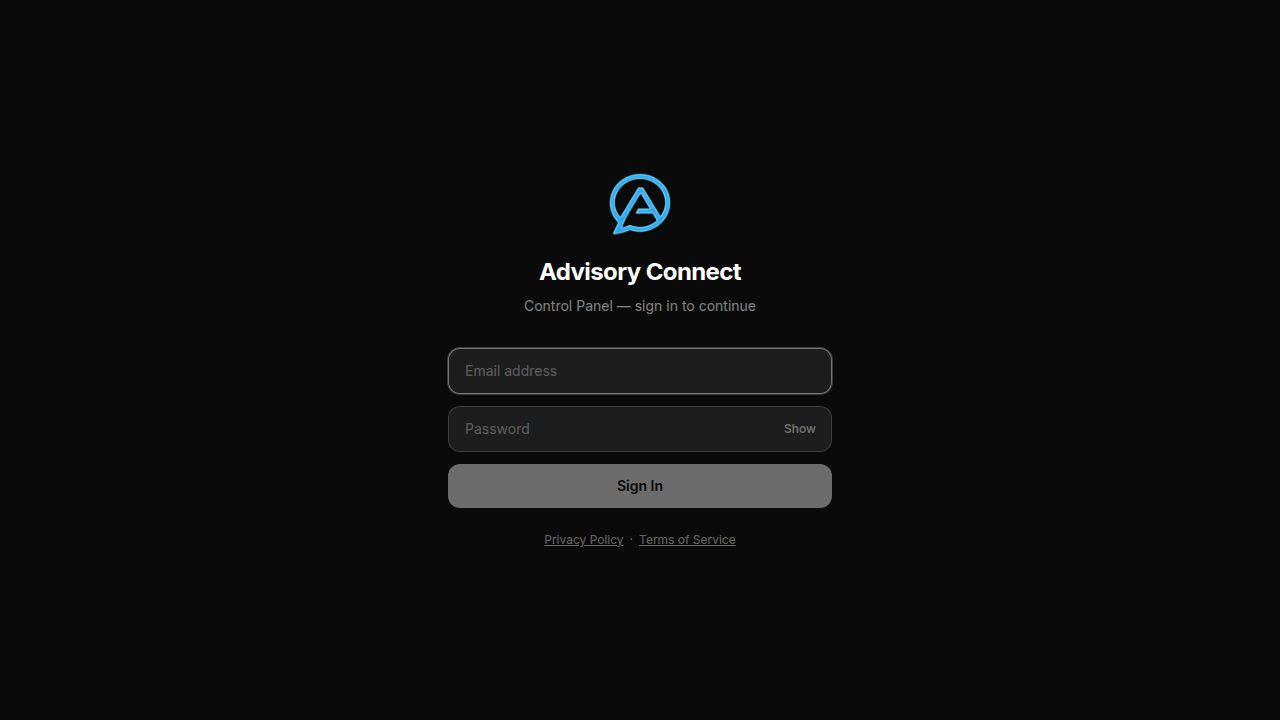
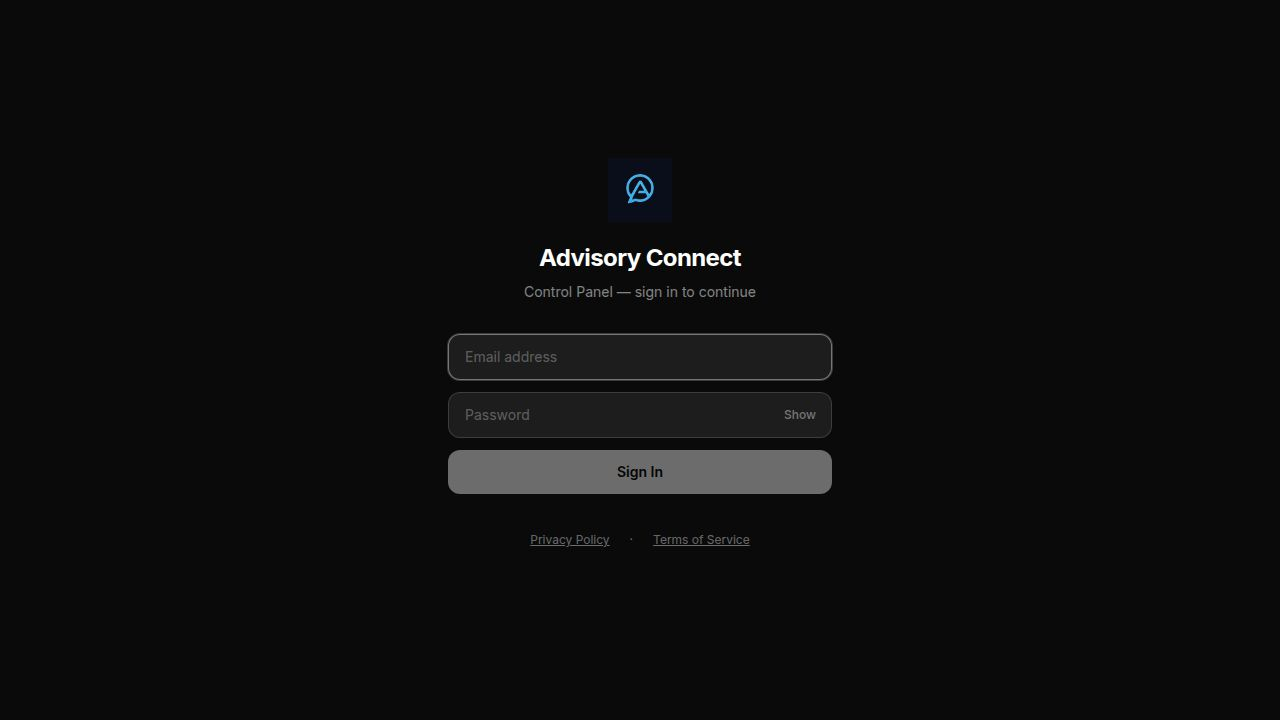
SEO: switch canonical hostname to app.advisoryconnect.pro
Search Console is verified for app.advisoryconnect.pro but the sitemap,
canonical tag, OG/Twitter images, robots.txt, contact-card QR/share
URLs, server-rendered crawler OG meta, .replit.app 301 redirect, email
PROD_ORIGIN, and admin/advisor "copy profile URL" UI were all emitting
bare advisoryconnect.pro. Google was fetching sitemap entries that
lived outside the verified property and refusing to index them
(Discovered pages: 0).

Changes (Option A from chat — make app. canonical everywhere):
- server/routes.ts: sitemap base URL + per-slug entries → app.
  Also switched profile path from /profile/<slug> to /<slug> to
  match the canonical short-form URL Stewart actively shares.
  Both /profile/<slug> and /<slug> still route to AdvisorProfile in
  client/src/App.tsx so old shared links keep working.
- server/index.ts: .replit.app→prod 301 redirect target → app.;
  server-rendered OG metadata for crawlers (siteUrl, og:image url) → app.
  This is the big one for WhatsApp/Twitter/Facebook link previews.
- server/sendgrid.ts: PROD_ORIGIN constant → app. (used in every
  branded email footer link).
- client/public/robots.txt: Sitemap directive → app.
- client/index.html: <link rel=canonical>, og:image, twitter:image → app.
- client/src/pages/AdvisorProfile.tsx: profileUrl, profileShareUrl,
  hidden QR value, contact-card canvas QR caption + privacy footer → app.
- client/src/pages/AdvisorPanel.tsx: ShareCard url, Profile-Created
  toast, Profile URL slug input prefix → app.
[…]

Changed region(s): [[0.3438, 0.4583, 0.6562, 0.7028], [0.4062, 0.2444, 0.5938, 0.4278], [0.4062, 0.7333, 0.5938, 0.7639]]

diff --git a/client/src/pages/AdvisorProfile.tsx b/client/src/pages/AdvisorProfile.tsx
@@ -823,7 +823,7 @@ export default function AdvisorProfile() {
     advisor.corporateServices?.includes(s.key)
   ).map((s) => ({ ...s, ...(t.corpServices[s.key] || {}) }));
 
-  const profileUrl = `advisoryconnect.pro/${advisor.profileSlug}`;
+  const profileUrl = `app.advisoryconnect.pro/${advisor.profileSlug}`;
   const initials = getInitials(advisor.name);
 
   const hasContactDetails = advisor.showContactDetails !== false && (
@@ -832,7 +832,7 @@ export default function AdvisorProfile() {
 
   const themeBg = getThemeBackground(advisor.theme, (advisor as any).backgroundStyle, (advisor as any).patternOpacity);
 
-  const profileShareUrl = `https://advisoryconnect.pro/${advisor.profileSlug}`;
+  const profileShareUrl = `https://app.advisoryconnect.pro/${advisor.profileSlug}`;
   const hasWhatsApp = !!(advisor as any).contactNumber;
   const isIOS = /iphone|ipad|ipod/i.test(navigator.userAgent);
 
@@ -996,7 +996,7 @@ export default function AdvisorProfile() {
         }
         ctx.fillStyle = "#555"; ctx.font = `8.5px Arial, sans-serif`;
         ctx.textAlign = "center";
-        ctx.fillText("advisoryconnect.pro/privacy-policy", W / 2, H - 11);
+        ctx.fillText("app.advisoryconnect.pro/privacy-policy", W / 2, H - 11);
         const link = document.createElement("a");
         link.href = canvas.toDataURL("image/png");
         link.download = `${advisor.name.replace(/\s+/g, "-").toLowerCase()}-card.png`;
@@ -1024,7 +1024,7 @@ export default function AdvisorProfile() {
           ctx.textAlign = "center";
           ctx.fillText("Scan to view full profile", W / 2, qrY + QR_SIZE + 14);
           ctx.fillStyle = "#bbb"; ctx.font = `9px Arial, sans-serif`;
-          ctx.fillText(`advisoryconnect.pro/${advisor.profileSlug}`, W / 2, qrY + QR_SIZE + 28);
+          ctx.fillText(`app.advisoryconnect.pro/${advisor.profileSlug}`, W / 2, qrY + QR_SIZE + 28);
           afterQr();
         };
         qrImg.onerror = () => { URL.revokeObjectURL(url); afterQr(); };
@@ -1348,7 +1348,7 @@ export default function AdvisorProfile() {
 
         {/* Hidden QR for business card PDF generation */}
         <div style={{ position: "absolute", left: "-9999px", top: "-9999px", width: 0, height: 0, overflow: "hidden" }} aria-hidden="true">
-          <QRCodeSVG id="hidden-qr-card" value={`https://advisoryconnect.pro/${advisor.profileSlug}`} size={120} level="M" />
+          <QRCodeSVG id="hidden-qr-card" value={`https://app.advisoryconnect.pro/${advisor.profileSlug}`} size={120} level="M" />
         </div>
 
         {/* Ordered Sections */}

diff --git a/server/routes.ts b/server/routes.ts
@@ -207,14 +207,14 @@ export async function registerRoutes(
       const active = allAdvisors.filter((a) => a.active && a.profileSlug);
 
       const urls: { loc: string; priority: string; changefreq: string }[] = [
-        { loc: "https://advisoryconnect.pro/", priority: "1.0", changefreq: "weekly" },
-        { loc: "https://advisoryconnect.pro/privacy-policy", priority: "0.3", changefreq: "monthly" },
-        { loc: "https://advisoryconnect.pro/terms", priority: "0.3", changefreq: "monthly" },
+        { loc: "https://app.advisoryconnect.pro/", priority: "1.0", changefreq: "weekly" },
+        { loc: "https://app.advisoryconnect.pro/privacy-policy", priority: "0.3", changefreq: "monthly" },
+        { loc: "https://app.advisoryconnect.pro/terms", priority: "0.3", changefreq: "monthly" },
       ];
 
       for (const a of active) {
         urls.push({
-          loc: `https://advisoryconnect.pro/profile/${encodeURIComponent(a.profileSlug)}`,
+          loc: `https://app.advisoryconnect.pro/${encodeURIComponent(a.profileSlug)}`,
           priority: "0.8",
           changefreq: "weekly",
         });
@@ -222,7 +222,7 @@ export async function registerRoutes(
         for (const sp of secondaries) {
           if (!sp.profileSlug) continue;
           urls.push({
-            loc: `https://advisoryconnect.pro/profile/${encodeURIComponent(sp.profileSlug)}`,
+            loc: `https://app.advisoryconnect.pro/${encodeURIComponent(sp.profileSlug)}`,
             priority: "0.6",
             changefreq: "weekly",
           });

diff --git a/client/src/pages/AdvisorPanel.tsx b/client/src/pages/AdvisorPanel.tsx
@@ -2696,7 +2696,7 @@ function ProfileCard({
 }) {
   const { toast } = useToast();
   const [copied, setCopied] = useState(false);
-  const url = `advisoryconnect.pro/${profileSlug}`;
+  const url = `app.advisoryconnect.pro/${profileSlug}`;
   const themeAccent = getThemeColors(theme).accentColor;
   const badgeColors = getInitialsBadgeColors(theme);
   const initials = getInitials(name);
@@ -2979,7 +2979,7 @@ function AdditionalProfileForm({
     },
     onSuccess: () => {
       queryClient.invalidateQueries({ queryKey: [`/api/advisors/${advisorId}/profiles`] });
-      toast({ title: isEditing ? "Profile Updated" : "Profile Created", description: isEditing ? "Changes saved." : `Profile live at advisoryconnect.pro/${profileSlug}` });
+      toast({ title: isEditing ? "Profile Updated" : "Profile Created", description: isEditing ? "Changes saved." : `Profile live at app.advisoryconnect.pro/${profileSlug}` });
       onDone();
     },
     onError: (e: Error) => toast({ title: "Error", description: e.message, variant: "destructive" }),
@@ -3039,7 +3039,7 @@ function AdditionalProfileForm({
         <div className="space-y-1.5">
           <label className="text-xs font-medium" style={{ color: tc.mutedText }}>Profile URL</label>
           <div className="flex items-center rounded-lg overflow-hidden" style={{ border: `1px solid ${profileSlug && !slugValid ? "#ef4444" : tc.inputBorder}`, backgroundColor: tc.inputBg }}>
-            <span className="px-2 py-2 text-xs flex-shrink-0" style={{ color: tc.mutedText, borderRight: `1px solid ${tc.inputBorder}` }}>advisoryconnect.pro/</span>
+            <span className="px-2 py-2 text-xs flex-shrink-0" style={{ color: tc.mutedText, borderRight: `1px solid ${tc.inputBorder}` }}>app.advisoryconnect.pro/</span>
             <input value={profileSlug} onChange={e => setProfileSlug(e.target.value.toLowerCase().replace(/[^a-z0-9-]/g, ""))}
               placeholder={`${baseSlug}-2`} className="flex-1 px-2 py-2 text-xs bg-transparent outline-none" style={{ color: tc.textColor }} data-testid="input-profile-slug" />
           </div>
@@ -6224,7 +6224,7 @@ export default function AdvisorPanel() {
   }
 
   const initials = getInitials(advisor.name);
-  const profileUrl = `advisoryconnect.pro/${advisor.profileSlug}`;
+  const profileUrl = `app.advisoryconnect.pro/${advisor.profileSlug}`;
 
   const tabs = [
     { key: "home" as const, label: "Home", icon: Home },

diff --git a/client/index.html b/client/index.html
@@ -6,17 +6,17 @@
 
     <title>Advisory Connect — Trusted South African Financial Advisors</title>
     <meta name="description" content="Advisory Connect helps South Africans connect with trusted financial advisors for personalised guidance on tax, investments, retirement, wills, medical aid, and more." />
-    <link rel="canonical" href="https://advisoryconnect.pro/" />
+    <link rel="canonical" href="https://app.advisoryconnect.pro/" />
     <meta name="robots" content="index, follow" />
 
     <meta property="og:title" content="Advisory Connect" />
     <meta property="og:description" content="Connect with a trusted financial advisor for personalised guidance on tax, investments, retirement, and more." />
     <meta property="og:type" content="website" />
-    <meta property="og:image" content="https://advisoryconnect.pro/opengraph.jpg" />
+    <meta property="og:image" content="https://app.advisoryconnect.pro/opengraph.jpg" />
     <meta name="twitter:card" content="summary_large_image" />
     <meta name="twitter:title" content="Advisory Connect" />
     <meta name="twitter:description" content="Connect with a trusted financial advisor for personalised guidance on tax, investments, retirement, and more." />
-    <meta name="twitter:image" content="https://advisoryconnect.pro/opengraph.jpg" />
+    <meta name="twitter:image" content="https://app.advisoryconnect.pro/opengraph.jpg" />
 
     <link rel="icon" type="image/png" sizes="16x16" href="/logo/favicon-16.png" />
     <link rel="icon" type="image/png" sizes="32x32" href="/logo/favicon-32.png" />

diff --git a/server/index.ts b/server/index.ts
@@ -183,7 +183,7 @@ process.on("uncaughtException", (err) => {
     const host = req.headers.host || "";
     if (host.includes(".replit.app")) {
       const qs = req.url.startsWith(req.path) ? req.url.slice(req.path.length) : "";
-      return res.redirect(301, `https://advisoryconnect.pro${req.path}${qs}`);
+      return res.redirect(301, `https://app.advisoryconnect.pro${req.path}${qs}`);
     }
     next();
   });
@@ -205,9 +205,9 @@ process.on("uncaughtException", (err) => {
       const esc = (s: string) => s.replace(/&/g,"&amp;").replace(/"/g,"&quot;").replace(/</g,"&lt;").replace(/>/g,"&gt;");
       const title = esc(`${advisor.name}${advisor.title ? " — " + advisor.title : ""} | Advisory Connect`);
       const description = esc(`Connect with ${advisor.name} for personalised financial guidance on tax, investments, retirement, and more.`);
-      const siteUrl = `https://advisoryconnect.pro/${advisor.profileSlug}`;
+      const siteUrl = `https://app.advisoryconnect.pro/${advisor.profileSlug}`;
       const hasPic = !!(advisor as any).profilePicUrl;
-      const imageUrl = hasPic ? `https://advisoryconnect.pro/api/og-image/${advisor.profileSlug}` : "";
+      const imageUrl = hasPic ? `https://app.advisoryconnect.pro/api/og-image/${advisor.profileSlug}` : "";
       const imageTag = hasPic
         ? `<meta property="og:image" content="${imageUrl}" />
 <meta property="og:image:width" content="600" />

diff --git a/client/src/pages/CreateAdvisor.tsx b/client/src/pages/CreateAdvisor.tsx
@@ -51,7 +51,7 @@ By accepting these terms, the advisor agrees to:
 
 4. Allow Advisory Connect to send transactional emails (lead notifications, OTPs, account-related communications) to the registered email address.
 
-5. Acknowledge that the public-facing profile served at advisoryconnect.pro/[their-slug] will be visible to anyone with the link.
+5. Acknowledge that the public-facing profile served at app.advisoryconnect.pro/[their-slug] will be visible to anyone with the link.
 
 The full Terms of Service document is currently being finalised and will be made available shortly. By ticking the box below, the advisor confirms they accept these interim terms and the formal Terms of Service once published.`;
 
@@ -554,7 +554,7 @@ export default function CreateAdvisor() {
                 </div>
               </div>
               <div className="p-4 space-y-2.5 text-xs">
-                <Row label="Profile URL" value={formattedSlug ? `advisoryconnect.pro/${formattedSlug}` : "—"} />
+                <Row label="Profile URL" value={formattedSlug ? `app.advisoryconnect.pro/${formattedSlug}` : "—"} />
                 <Row label="Contact Number" value={contactNumber || "—"} />
                 <Row label="Login Email" value={email || "—"} />
                 <Row label="Advisor Code" value={advisorCode || "—"} />

diff --git a/client/src/pages/EditAdvisor.tsx b/client/src/pages/EditAdvisor.tsx
@@ -64,7 +64,7 @@ export default function EditAdvisor() {
   }, [advisor, loaded]);
 
   const slug = advisor?.profileSlug || "";
-  const profileUrl = `https://advisoryconnect.pro/${slug}`;
+  const profileUrl = `https://app.advisoryconnect.pro/${slug}`;
   const initials = name.trim() ? name.trim().split(" ").map(n => n[0]).join("").toUpperCase().slice(0, 2) : "NA";
   const bioText = bioOption === "custom" ? customBio : BIO_OPTIONS[bioOption] || "";
   const themeInitialsBg = theme === "pink" ? "bg-pink-800 text-pink-100" : theme === "blue" ? "bg-blue-800 text-blue-100" : "bg-neutral-800 text-white";

diff --git a/server/sendgrid.ts b/server/sendgrid.ts
@@ -14,7 +14,7 @@ const MASTER_INBOX = "[email redacted]";
 // footer. Email clients are conservative about CSS so this is all inline
 // styles + table-friendly markup. Absolute https URLs are used for the logos
 // because mail clients don't load relative paths.
-const PROD_ORIGIN = "https://advisoryconnect.pro";
+const PROD_ORIGIN = "https://app.advisoryconnect.pro";
 
 export function brandedEmail(innerHtml: string, opts?: { previewText?: string }): string {
   const preview = opts?.previewText ? opts.previewText.slice(0, 200) : "";